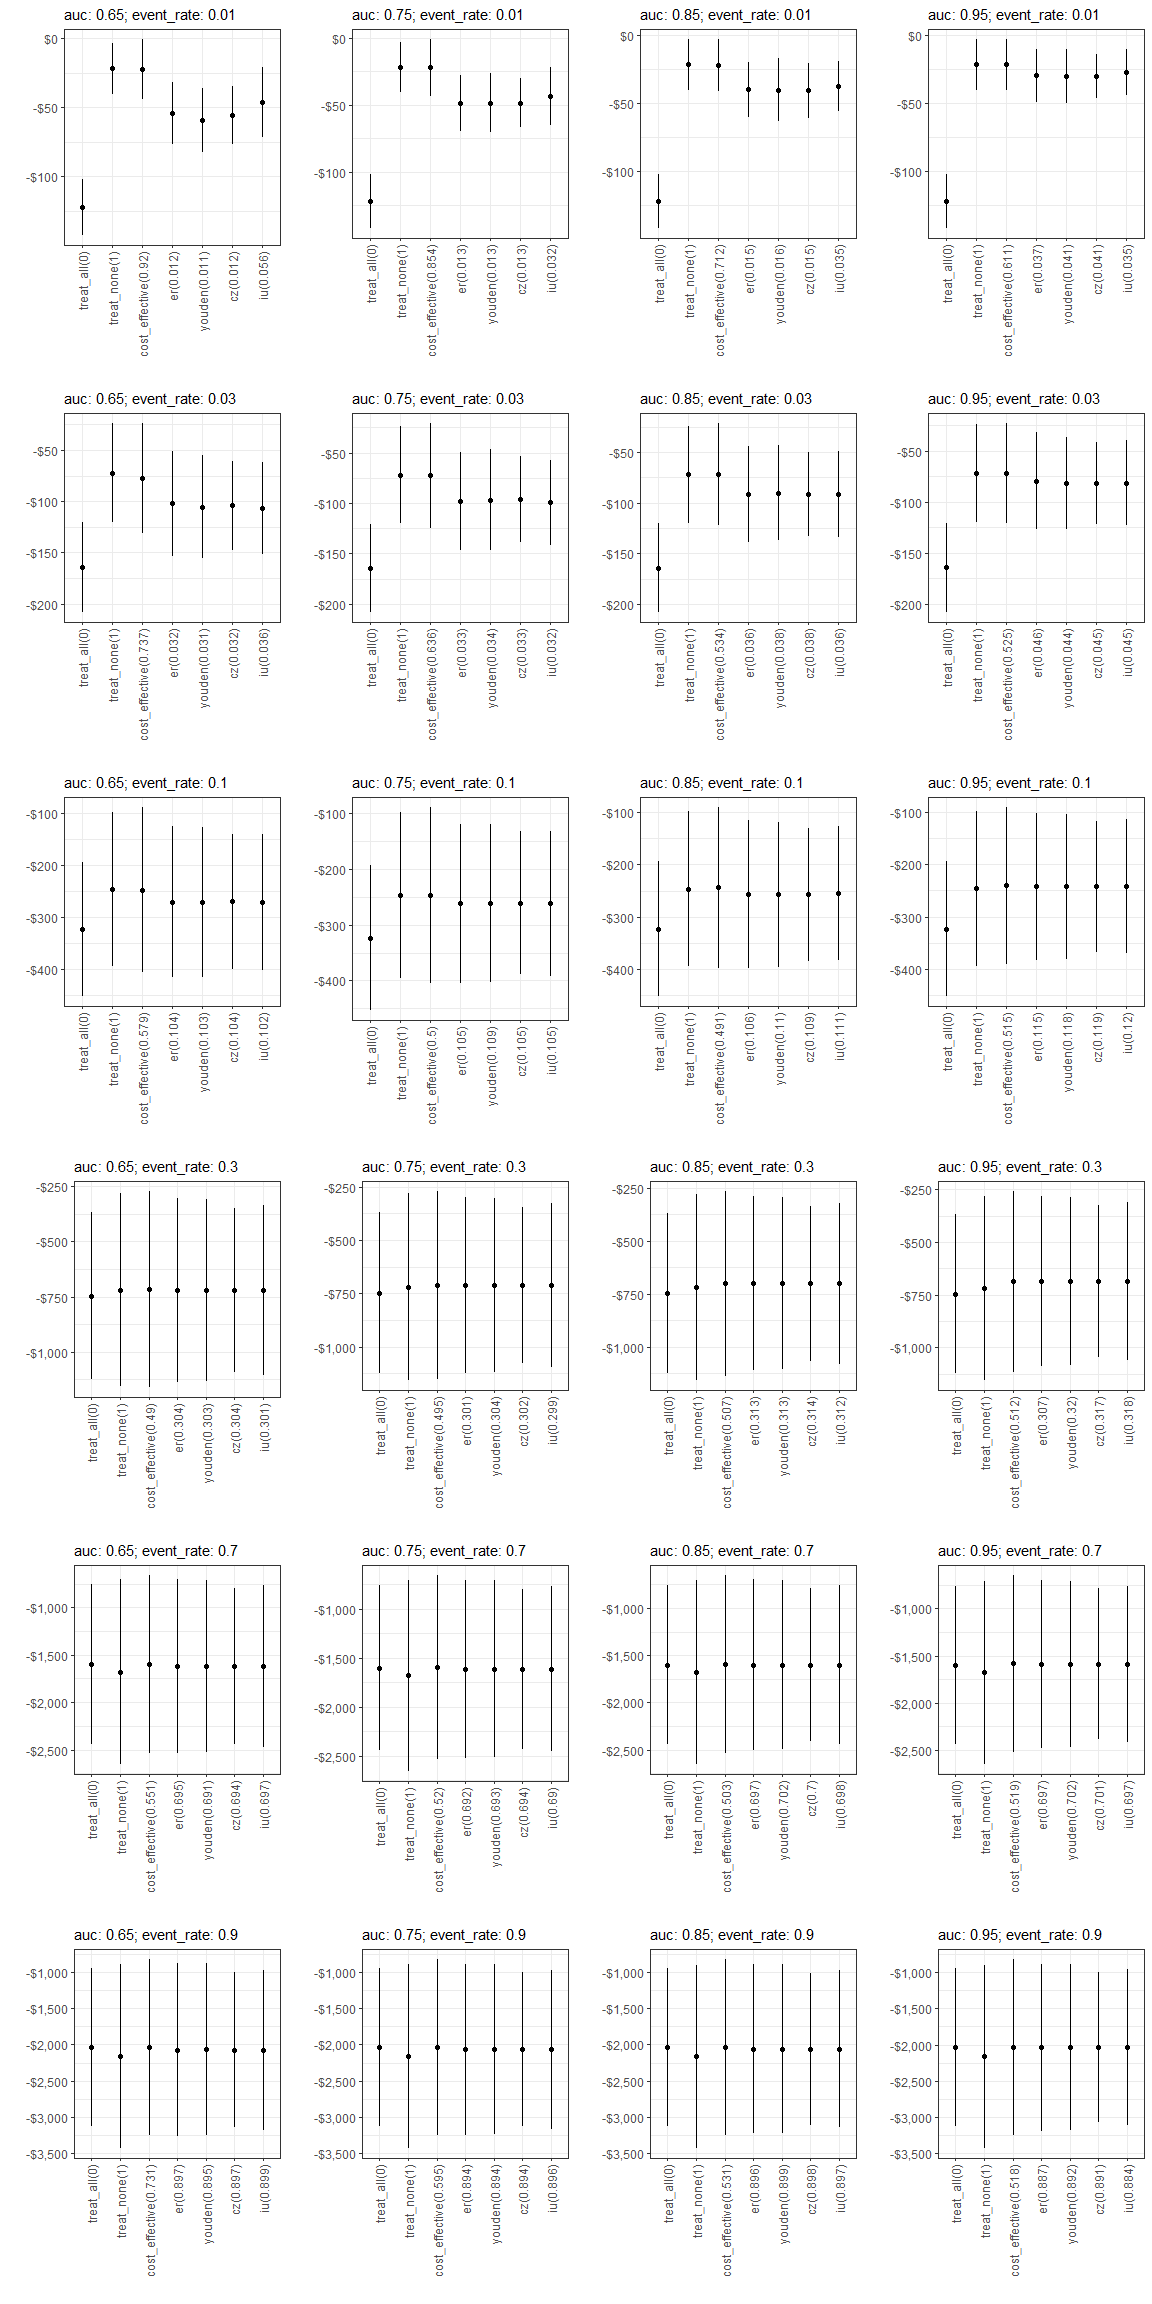
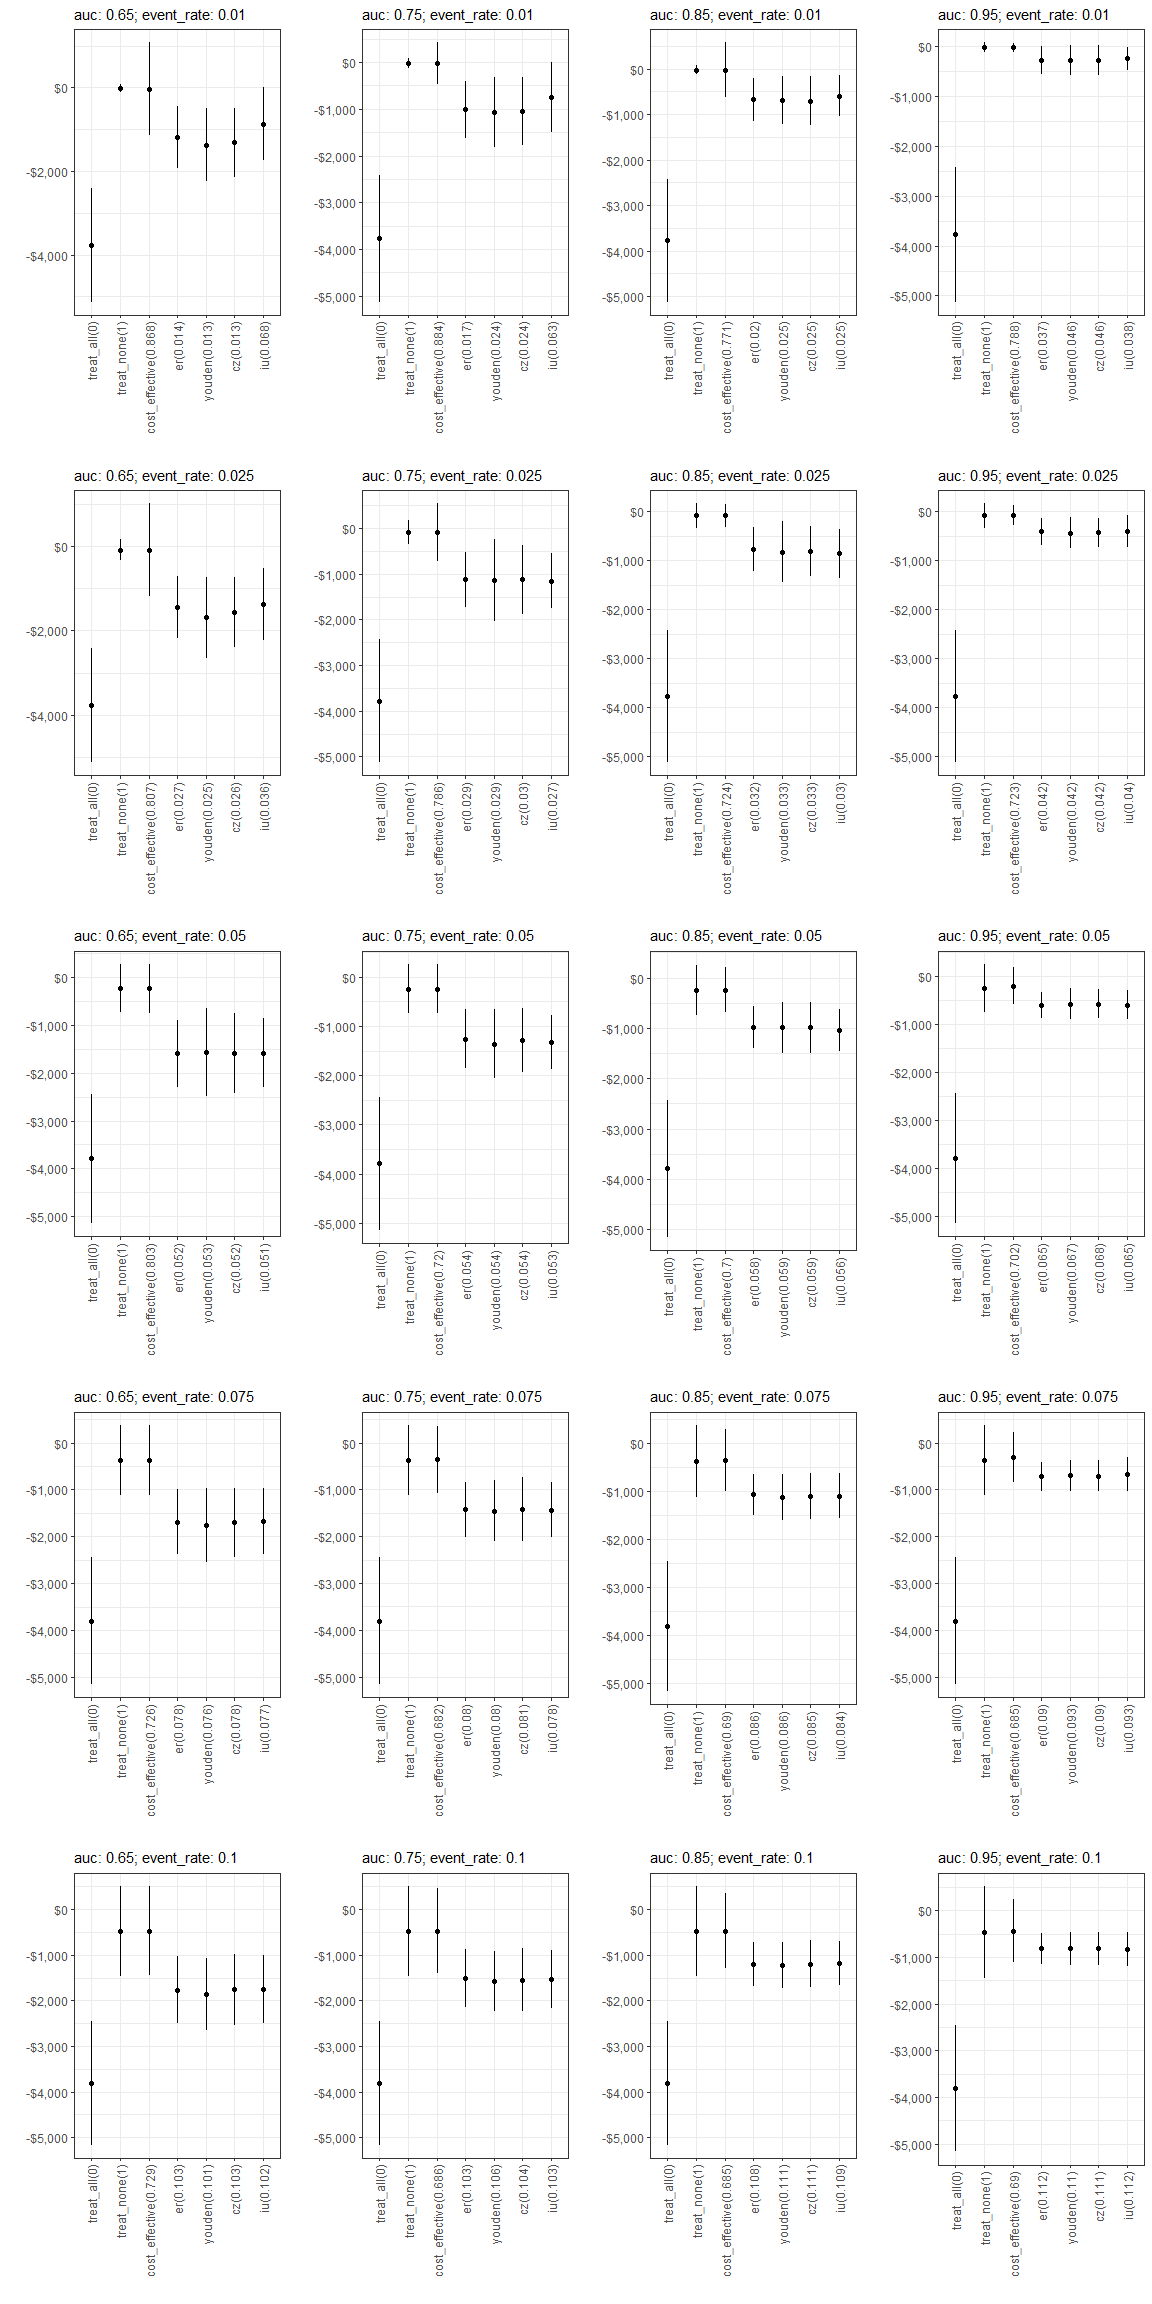
add icu simulation and knit rmd doc

diff --git a/experiment_1.md b/experiment_1.md
@@ -9,27 +9,27 @@ versus costs-based selection. (Hospital falls as a use case.)
 1.  Define costs of a TP, TN, FP, FN of falls classification (option to
     move this into the loop where costs are sampled from a distributions
     to account for uncertainty in their estimates in the literature)
-      - FP have cost of applying intervention
-      - FN have cost of patient fall
-      - TP have cost of intervention + cost of fall\*(1-effectiveness of
+    -   FP have cost of applying intervention
+    -   FN have cost of patient fall
+    -   TP have cost of intervention + cost of fall\*(1-effectiveness of
         intervention on rate of falls)
-      - TN are cost $0
+    -   TN are cost $0
 2.  Select appropriate ranges for model AUC (\~0.75?) and prevalence
     (\~3%) for comparable clinical prediction model for falls.
 3.  For sample sizes (N) in \[100, 500, 1000\]: (repeat 500 times at
     each sample size)
-      - Get training data by sampling observed predictor values and
+    -   Get training data by sampling observed predictor values and
         outcome by transforming AUC into Cohens’ D and sampling from two
         normal distributions, the first (negative events) with mean=0
         and the second (positive events) with mean=Cohens’D. (Both with
         sd=1.)
-      - Fit a logistic regression model using this sampled data.
-      - Fit predicted probabilities to the training data and use these
+    -   Fit a logistic regression model using this sampled data.
+    -   Fit predicted probabilities to the training data and use these
         to obtain probability thresholds using each method.
-      - Get validation data using the same approach but with n=1000.
-      - Use the previously fit model to estimate probabilities for
+    -   Get validation data using the same approach but with n=1000.
+    -   Use the previously fit model to estimate probabilities for
         validation data.
-      - Evaluate the thresholds selected using the training data on the
+    -   Evaluate the thresholds selected using the training data on the
         validation data, in terms of mean cost per patient.
 4.  Measure differences in NMB on validation sample dependent on use of
     currently available methods and cost-based approach to determine
@@ -37,8 +37,6 @@ versus costs-based selection. (Hospital falls as a use case.)
 5.  Observe whether this relationship is dependent on the sample size
     taken
 6.  ???
-
-<!-- end list -->
 
 ``` r
 get_nmb <- function(){
@@ -100,7 +98,7 @@ get_nmb_ICU <- function(){
   ICU_cost <- rgamma(
     1, 
     params$icu$icu_cost$shape,
-    params$icu$icu_cost$scale
+    params$icu$icu_cost$rate
   ) * params$icu$icu_cost$multiplier
   
   # Opportunity cost taken from Page et al (2017), BMC HSR
@@ -124,7 +122,7 @@ get_nmb_ICU()
 ```
 
     ##         TN         FN         TP         FP 
-    ##    28.6307 -3650.7631        NaN        NaN
+    ##    28.6307  8234.2848 -4132.5328 -3627.0893
 
 ### Run simulation
 
@@ -287,14 +285,13 @@ g <- expand.grid(
 )
 
 clusterExport(cl, {
-  c("do_simulation", "g", "get_nmb")
+  c("do_simulation", "g", "get_nmb", "get_nmb_ICU", "params")
 })
 
 invisible(clusterEvalQ(cl, {
   library(tidyverse)
   library(data.table)
   library(cutpointr)
-  source("src/inputs.R")
   source("src/utils.R")
   source("src/cutpoint_methods.R")
 }))
@@ -311,16 +308,16 @@ ll1 <- parallel::parLapply(
   )
 )
 
-# ll2 <- parallel::parLapply(
-#   cl,
-#   1:nrow(g),
-#   function(i) do_simulation(
-#     sample_size=500, n_sims=100, n_valid=1000,
-#     sim_auc=g$sim_auc[i], event_rate=g$event_rate[i],
-#     fx_costs=get_nmb, get_what="plot", resample_values=FALSE,
-#     plot_type="point"
-#   )
-# )
+ll2 <- parallel::parLapply(
+  cl,
+  1:nrow(g),
+  function(i) do_simulation(
+    sample_size=500, n_sims=100, n_valid=1000,
+    sim_auc=g$sim_auc[i], event_rate=g$event_rate[i],
+    fx_costs=get_nmb_ICU, get_what="plot", resample_values=FALSE,
+    plot_type="point"
+  )
+)
 
 cowplot::plot_grid(plotlist=ll1, ncol=length(unique(g$sim_auc)))
 ```
@@ -328,5 +325,7 @@ cowplot::plot_grid(plotlist=ll1, ncol=length(unique(g$sim_auc)))
 ![](experiment_1_files/figure-gfm/unnamed-chunk-4-1.png)<!-- -->
 
 ``` r
-# cowplot::plot_grid(plotlist=ll2, ncol=length(unique(g$sim_auc)))
+cowplot::plot_grid(plotlist=ll2, ncol=length(unique(g$sim_auc)))
 ```
+
+![](experiment_1_files/figure-gfm/unnamed-chunk-4-2.png)<!-- -->
